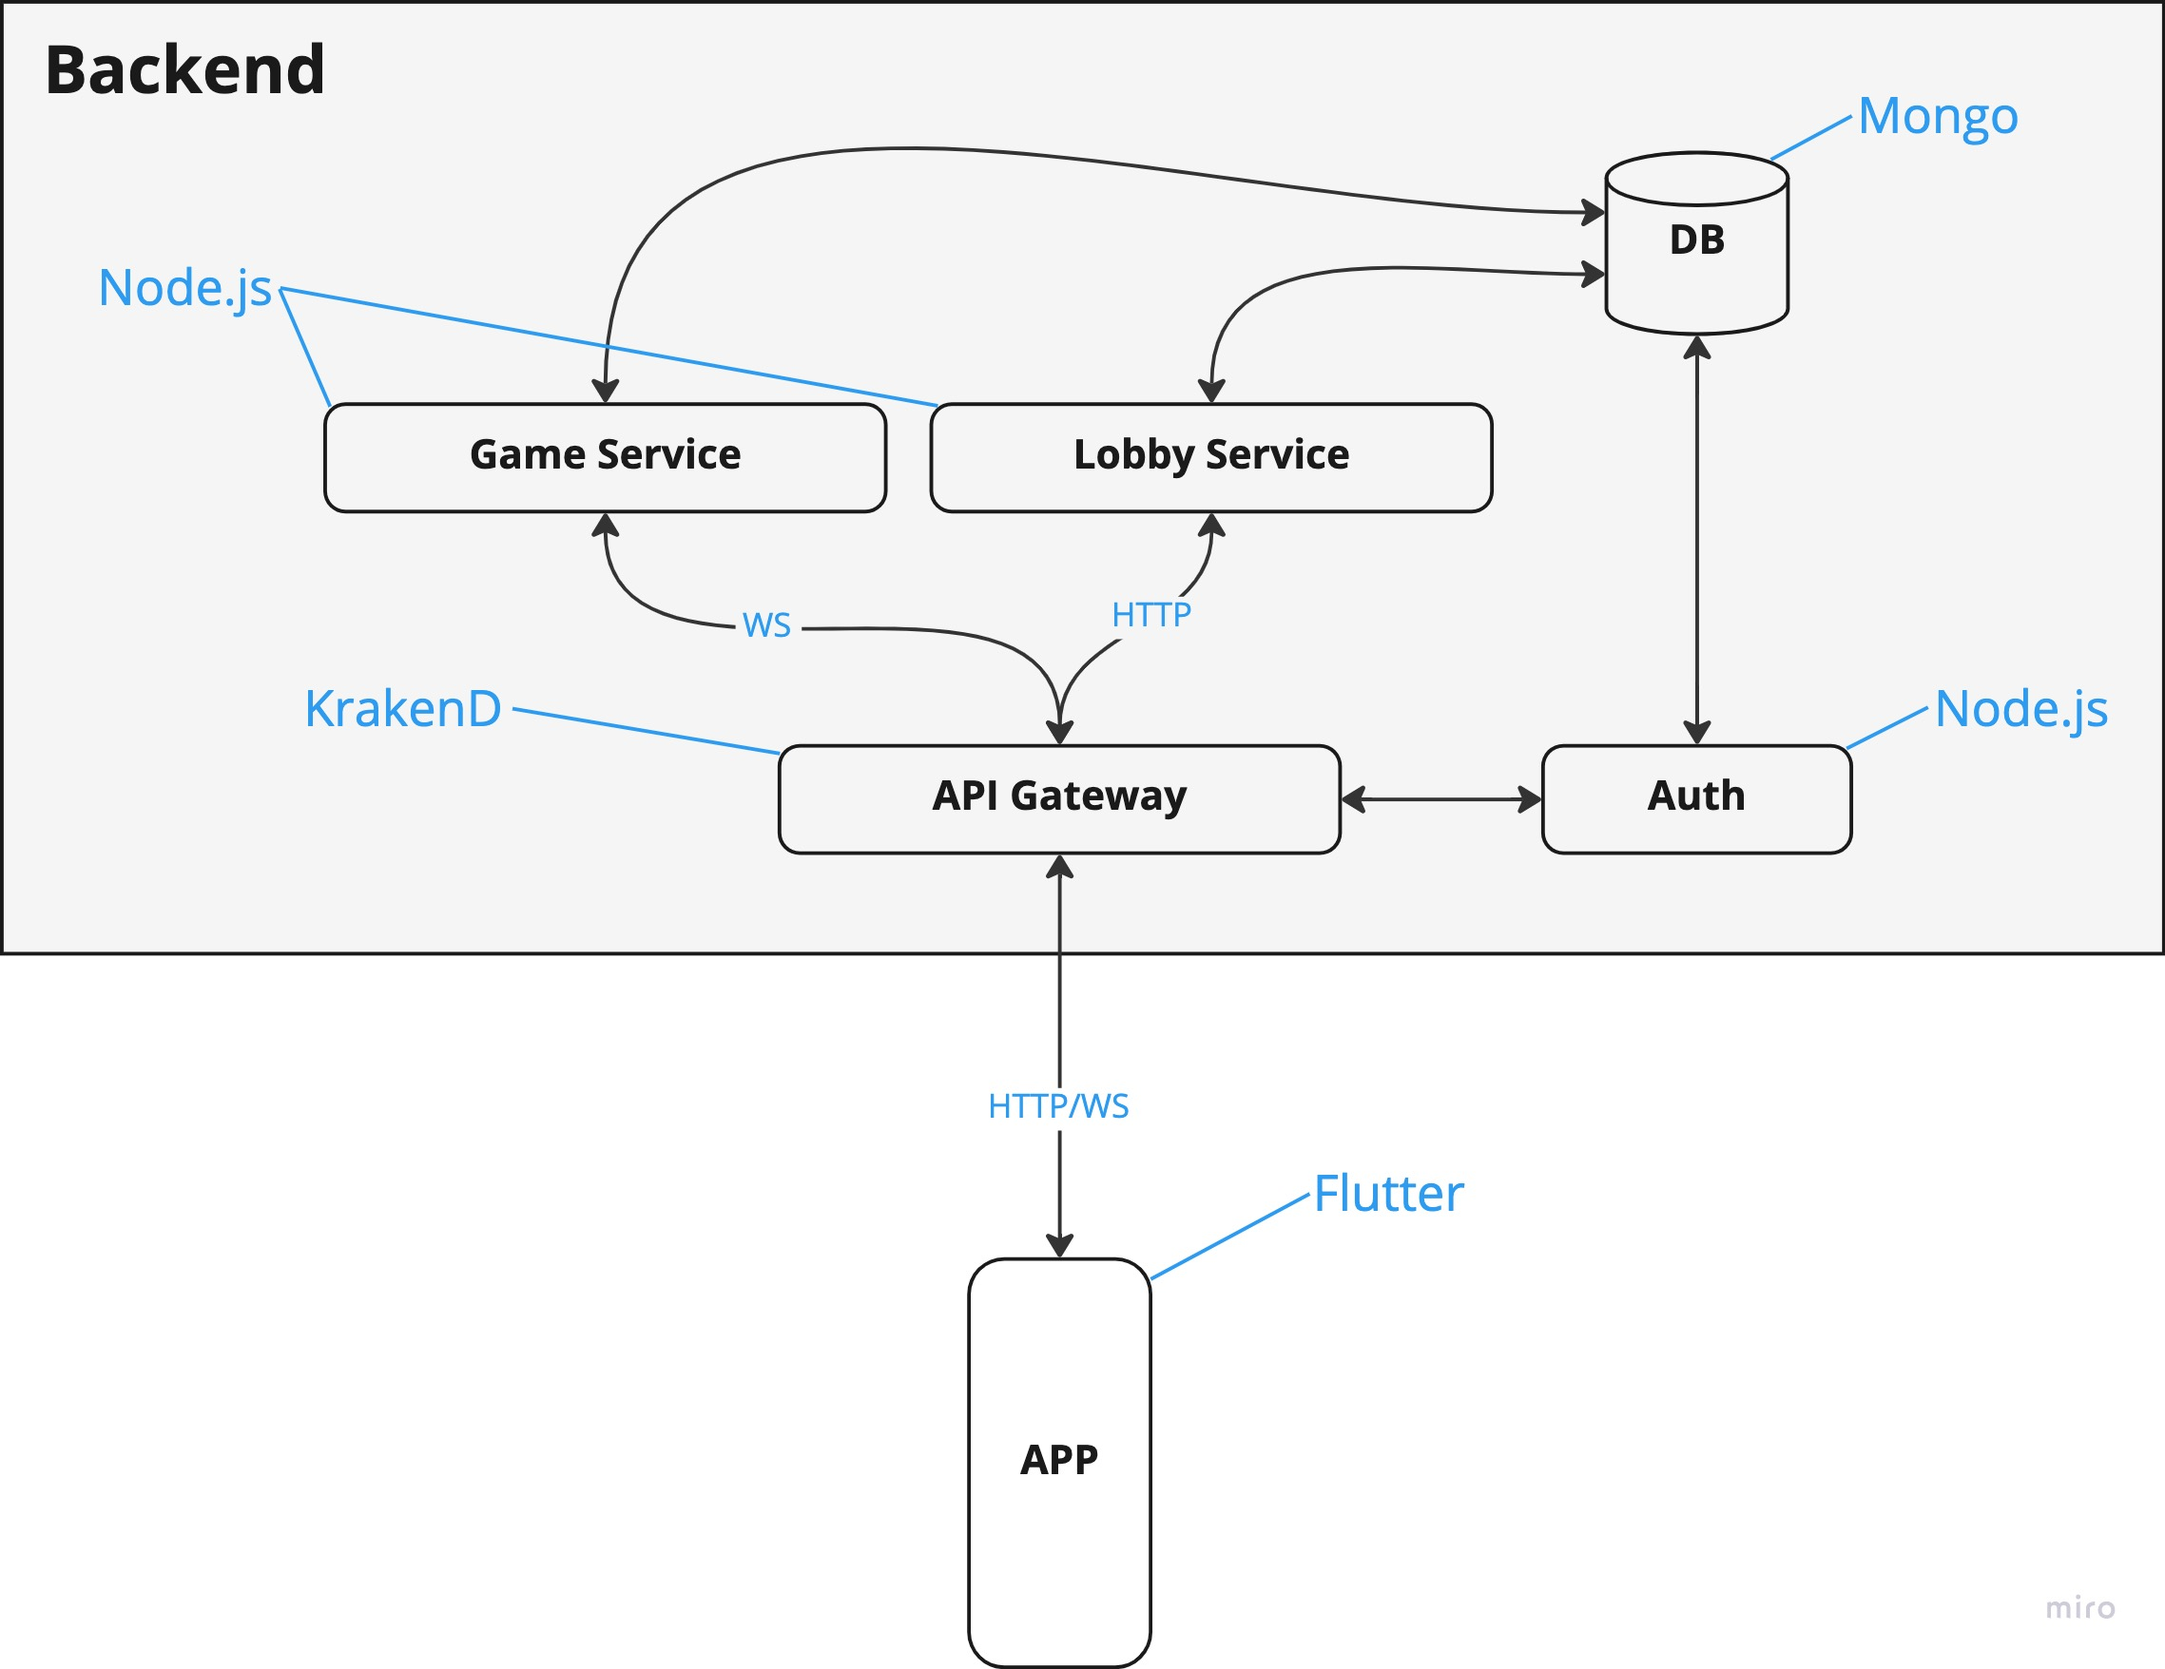
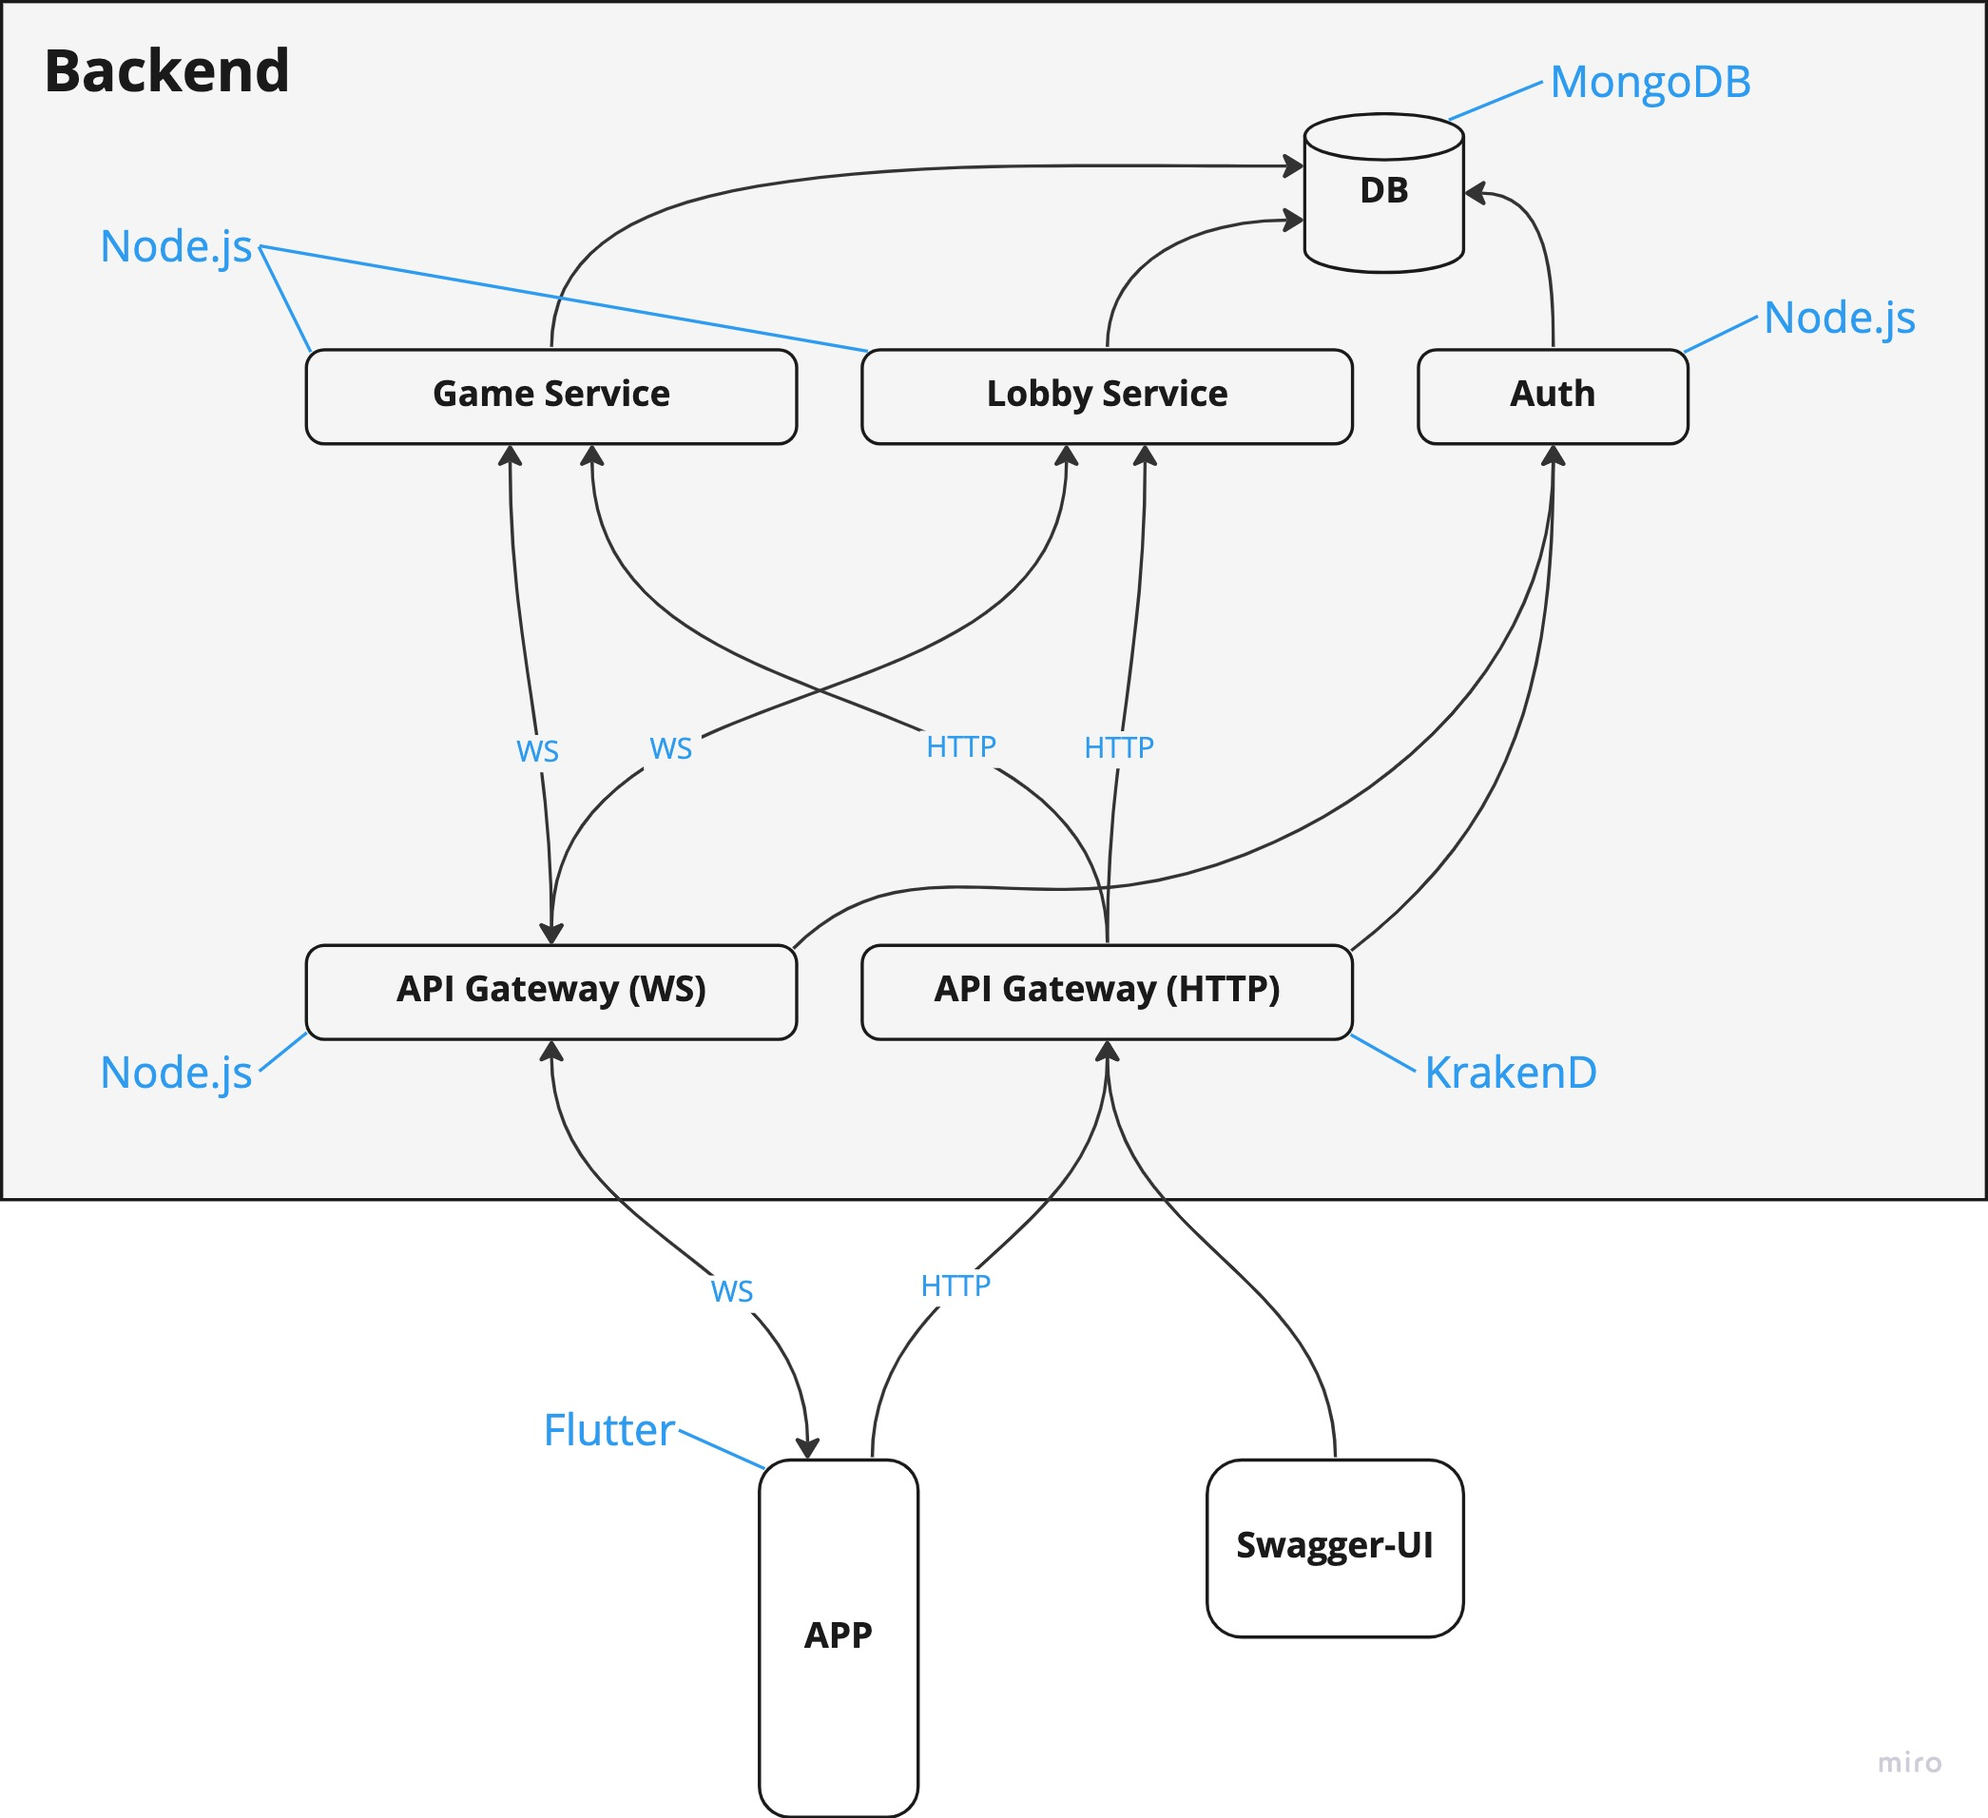
fix: docs architecture update and cosmetic fixes

diff --git a/services/gateway_ws/README.md b/services/gateway_ws/README.md
@@ -20,8 +20,9 @@ Therefore the gateway can identify every client connection by:
 - part of functionality the cllient wants to use - in our case it is either something related to lobby (joining, chatting, etc.) or something related to actual game (making moves etc.) - which is very convenient, as these are provided by 2 backend services.
 
 ## Implementation
-After considering everything explained in the previous chapter the following concept emerges:
+After considering everything explained in the previous chapter the following concept emerges:<br><br>
 ![WS Gateway architecture](../../misc/ws_gateway.jpeg)
+<br><br>
 Takeaways:
 - gateway keeps one WS connection at all times to any backend service
 - gateway provides one WS endpoint for each part of functionality (de facto for each backend service)
@@ -31,8 +32,8 @@ Takeaways:
 ### The language
 #### Key concept
 The gateway by itself does not know what to do with each client - this is the responsibility of backends.<br>
-The gateway <u>informs</u> the backend about what happens to its corresponding ws endpoint. In other words the gateway sends <u>events</u> to a backend.<br>
-Depending on what happens, a backend <u>commands</u> the gateway to do something with a specific client. In other words a backend sends <u>actions</u> to the gateway.
+The gateway <ins>informs</ins> the backend about what happens to its corresponding ws endpoint. In other words the gateway sends <ins>events</ins> to a backend.<br>
+Depending on what happens, a backend <ins>commands</ins> the gateway to do something with a specific client. In other words a backend sends <ins>actions</ins> to the gateway.
 
 #### How it works
 All of the messages sent within the connections from gateway to backends are expected to be a JSON string.
